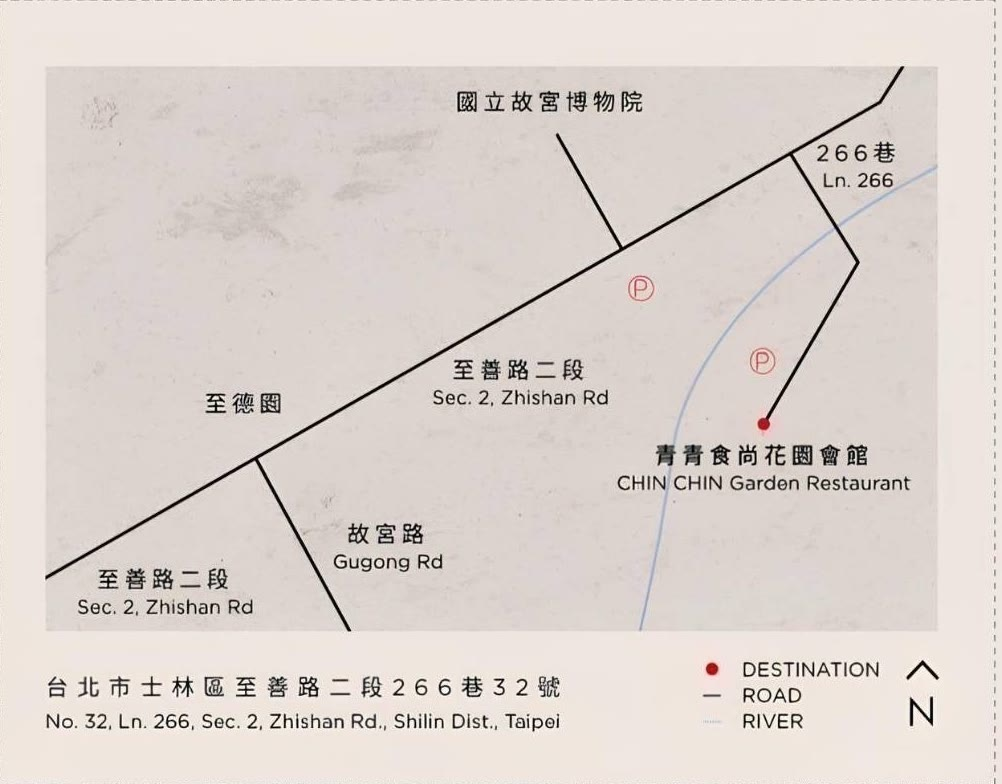
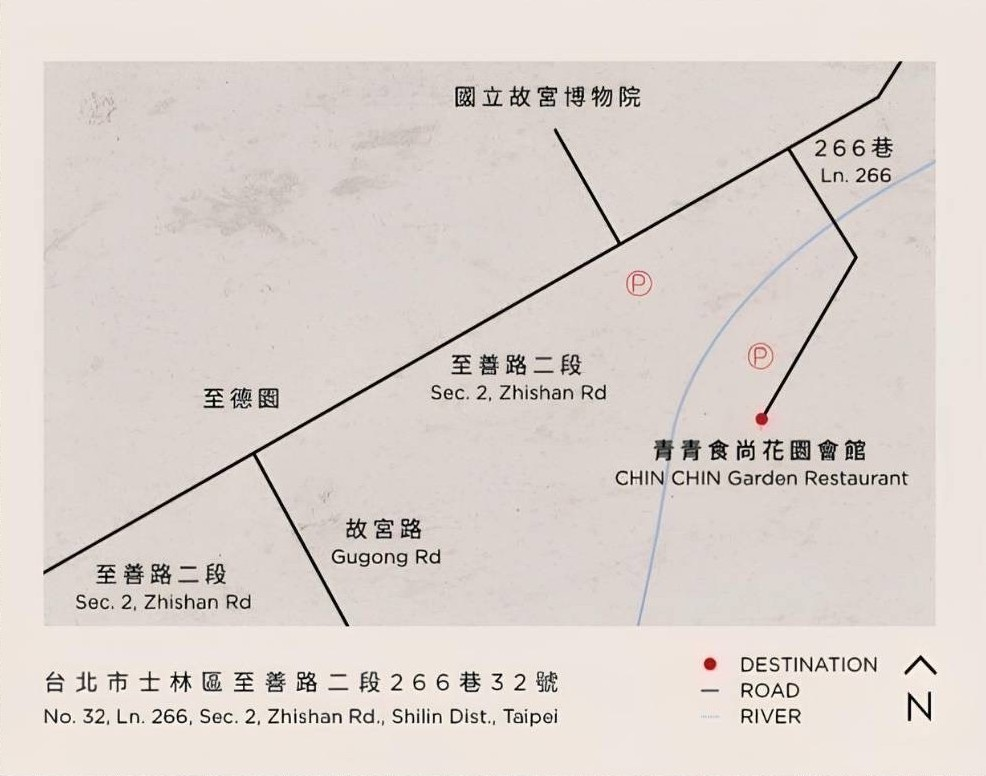
Use cleaned venue map image

diff --git a/index.html b/index.html
@@ -119,7 +119,7 @@ p{font-size:15px;letter-spacing:.06em}
 .sh-steps span{flex:0 0 36px;height:36px;border-radius:50%;background:var(--ink);color:var(--bg);display:flex;align-items:center;justify-content:center;font-size:18px;margin-top:2px}
 .sh-steps b{font-weight:500}
 .mapsec{padding-top:30px;padding-bottom:20px}
-.mapimg{display:block;width:100%;height:auto;margin:6px 0 0;border:1px solid var(--line)}
+.mapimg{display:block;width:100%;height:auto;margin:6px 0 0}
 .mapcap{margin-top:16px;font-size:17px;font-weight:400;letter-spacing:.14em;line-height:1.8}
 .mapcap span{font-size:14px;letter-spacing:.06em;opacity:.8;font-weight:300}
 footer{padding:70px 24px 90px;text-align:center}
